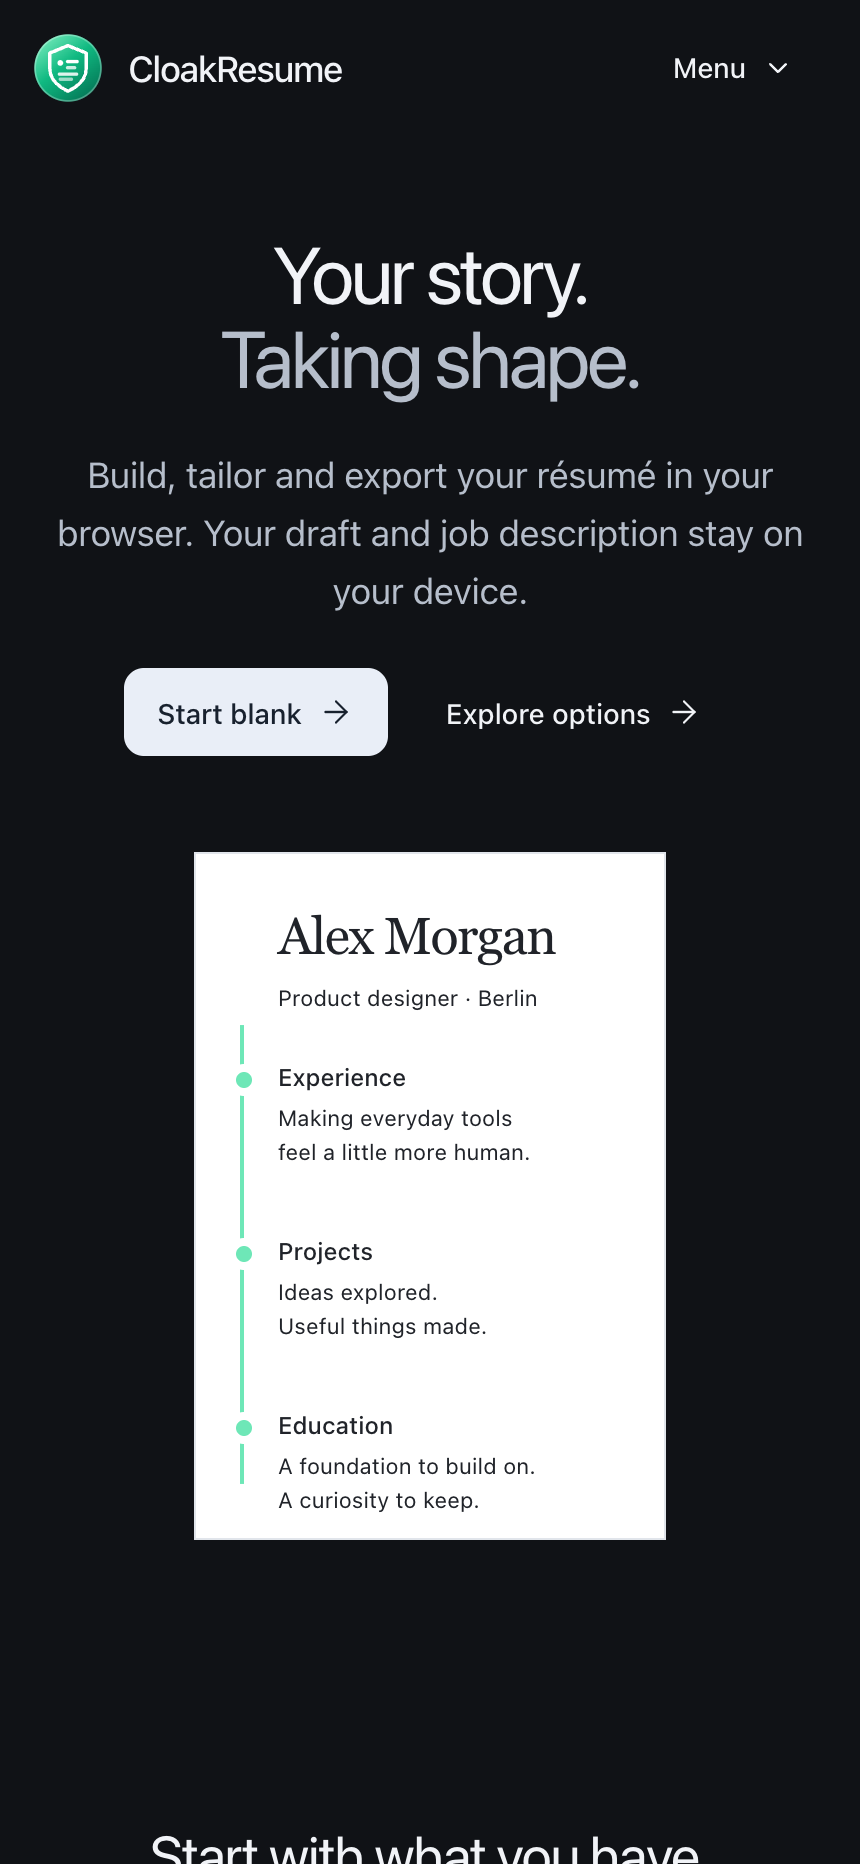
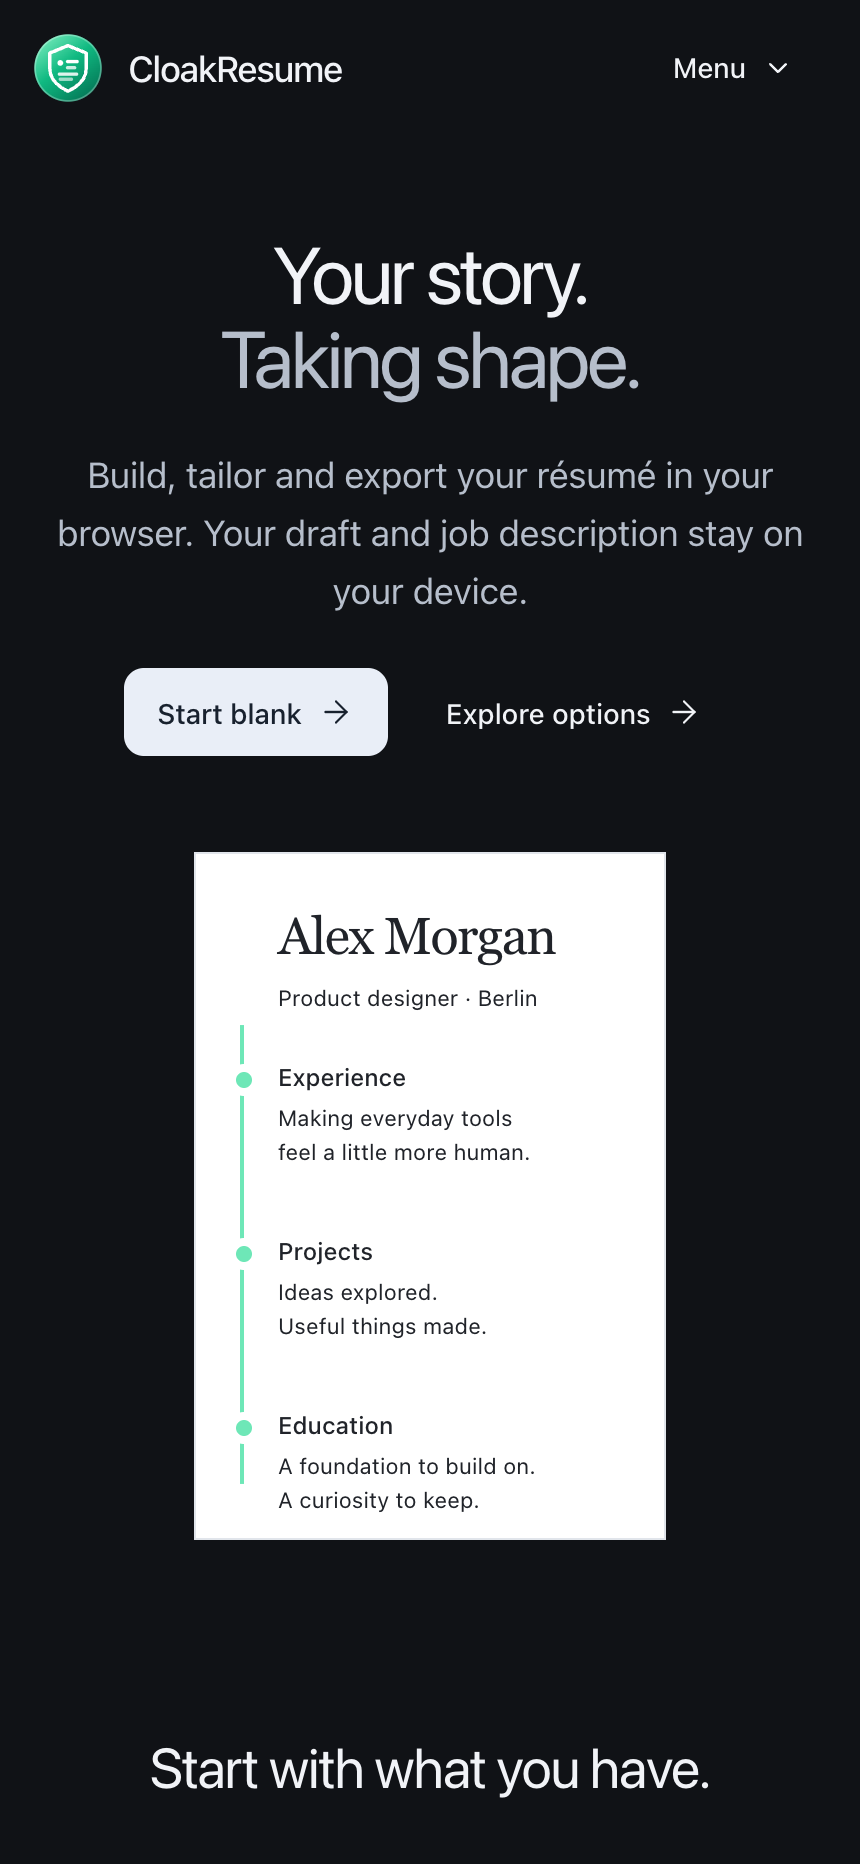
Remove landing playback controls and refresh stable previews

Changed region(s): [[0.1814, 0.9335, 0.8163, 1.0]]

diff --git a/src/components/Storyline.tsx b/src/components/Storyline.tsx
@@ -24,7 +24,6 @@ const move = (x: number, y: number) => `translate(${x}px, ${y}px)`;
 /** One illustrative career path; never reads a draft or delays entry to the editor. */
 export function Storyline() {
   const root = useRef<HTMLDivElement>(null);
-  const control = useRef<HTMLButtonElement>(null);
   useLayoutEffect(() => {
     const element = root.current;
     if (!element) return;
@@ -35,7 +34,6 @@ export function Storyline() {
     const rows = [...stage.querySelectorAll<HTMLElement>(".resume-story-chapter")];
     let width = stage.clientWidth;
     const artwork = mountAirArtwork(element, {
-      control: control.current,
       settle() {}, // Markup and CSS always describe the complete static résumé.
       run: (animate) => {
         width = stage.clientWidth;
@@ -162,11 +160,6 @@ export function Storyline() {
         {pieces.map((t) => (
           <span className="resume-story-line" key={t} style={{ transform: pose(t, 1, 0) }} />
         ))}
-      </div>
-      <div className="resume-story-controls">
-        <button type="button" className="air-button air-button--quiet" ref={control} hidden>
-          Pause animation
-        </button>
       </div>
     </div>
   );

diff --git a/src/styles/storyline.css b/src/styles/storyline.css
@@ -83,14 +83,6 @@
   font: 400 14px/1.4 var(--air-font);
   white-space: nowrap;
 }
-.resume-story-controls {
-  min-height: 44px;
-  display: flex;
-  justify-content: center;
-}
-.resume-story-controls button {
-  min-height: 44px;
-}
 @media (max-height: 480px) and (orientation: landscape) {
   .resume-story-stage {
     zoom: 0.78;

diff --git a/DESIGN.md b/DESIGN.md
@@ -1,19 +1,19 @@
 ---
 name: CloakResume — Cloakyard Air
-version: 1.2.0
+version: 1.2.1
 status: approved
 date: 2026-10-26
 scope: complete-web-product
 source-repository: https://github.com/cloakyard/cloakyard
 source-directory: design/air
-family-contract-sha256: a320d10433dd8790bf49b917d998dad6912574eb341d07c1b0915b5eefee576b
+family-contract-sha256: 58c563852cb37d8e729719311e857d96492023d96c1491b6203396173e459124
 ---
 
 <!-- BEGIN CLOAKYARD AIR CONTRACT -->
 
 # Cloakyard Air design contract
 
-Version: **1.2.0 — storyline and family chrome** · Direction: **Air** · Updated: **2026-10-26**
+Version: **1.2.1 — automatic finite landing artwork** · Direction: **Air** · Updated: **2026-10-26**
 
 The detailed Air system is **locked for implementation**. On 2026-10-13 the user
 authorized one final agent review followed by implementation; that review is
@@ -701,15 +701,16 @@ An accurate product screenshot may remain in the following feature section.
   keeping their stacking order. The front page and real dropzone stay anchored.
   Settle open after one unveiling; do not loop, reorder, or animate file intake.
 - **Drop:** square teal pixels descend into file, package, disc and archive forms.
-  Each form holds before dispersing downward and assembling the next. Use 850ms
-  pixel arrivals, a 50ms bottom-to-top row stagger, 480ms dispersal and a 1,500ms
-  hold. Use shared spatial/exit curves and linear descent with a gentle landing.
-  Keep a visible, keyboard/touch-accessible Air pause/resume action for repetition.
+  Show FILE, PKG, ISO and ZIP once, then keep the final form still. Use 600ms
+  arrivals, an 8ms bottom-to-top row stagger plus at most 29ms scatter, 160ms
+  dispersal with at most 48ms stagger and a 300ms hold between forms. The complete
+  sequence stays under five seconds (4,776ms maximum active timeline). Use shared
+  spatial/exit curves and linear descent with a gentle landing; never loop.
   These are illustrative file types, never a simulated real transfer or progress bar.
 - **Resume:** a green career path with three milestones gathers into the spine of
   one white résumé over 3,400ms with the shared spatial curve. Keep the paper's
   name and content illustrative; do not imply automatic writing or hiring results.
-  Run once, retain visible Pause/Play/Replay and a complete static résumé fallback.
+  Run once and settle into a complete static résumé. No playback controls.
   The headline and real Start blank/sample/import/restore actions never move.
 - Artwork uses only the product's existing `light-{app}` colour, neutral planes
   and truthful paper/image colours. The UI's focus, links and controls retain Air.
@@ -718,8 +719,11 @@ An accurate product screenshot may remain in the following feature section.
   theme, alongside the existing `paper-accent`; surrounding controls use live themes.
 - Static artwork renders without the animation module. Reduced motion, forced
   colours and constrained/save-data visits do not start decorative motion.
-  Live preference changes settle immediately. Pause offscreen and hidden; user
-  pause survives visibility changes. Cancel animations/listeners on departure.
+  Live preference changes settle immediately. Suspend offscreen and hidden; resume
+  the same finite sequence on return. Cancel animations/listeners on departure.
+- Landing artwork has no visible Play, Pause or Replay controls. Each automatic
+  arrival finishes within five seconds and remains still; returning visibility
+  or removing a motion restriction must not restart a completed sequence.
 - Keep the action usable before, during and after motion. Reserve the artwork's
   layout space, contain only its moving marks, and shrink ornamental space first
   in short landscape. Text and controls reflow at enlarged sizes. No fake upload,
@@ -1038,9 +1042,9 @@ performance approval.
 - One optional Air light effect on a landing page, never in an active workspace.
   Code is local/lazy; use the approved Shaders library only if it improves the
   chosen light treatment. A static CSS/image fallback must render first.
-- Pause offscreen, hidden, reduced-motion, and constrained-device effects. An
-  autonomous loop longer than five seconds needs a visible pause/stop control.
-  Prefer one short entrance or deliberate pointer response. Content and actions
+- Suspend offscreen/hidden effects and settle reduced-motion/constrained visits.
+  Landing artwork uses one entrance of at most five seconds or deliberate pointer
+  response, with no autonomous loop or playback controls. Content and actions
   never depend on GPU support or successful effect loading.
 - The reference's light follows a mass 1 / stiffness 100 / damping 10 spring,
   confined to the middle 70% of the artwork. It settles within 1.8s after the last

diff --git a/docs/air/validation.md b/docs/air/validation.md
@@ -1,5 +1,16 @@
 # Air validation record
 
+## 2026-10-26 — Automatic landing artwork without playback controls
+
+Removes the button/ref/CSS while preserving the 3,400ms Storyline arrival. All 373 production tests in ten files pass with zero skips; 68 artwork layouts, eight arrival layouts and lifecycle/static profiles pass. PWA/README screenshots were regenerated from the production build; the editor-based OG composition is unchanged. Visual inspection caught an existing capture timing fault that omitted dark-mode paper text. The generator now requires stable pixels after font readiness; all four repeated captures match exactly. No application rendering change was needed.
+
+Air 1.2.1 requires automatic finite landing artwork without Play/Pause/Replay.
+Hidden/offscreen suspension and reduced-motion/static fallbacks remain. Shared
+Chrome/Firefox checks pass 1,104 layouts. Applicable checks, build, dead-code,
+design and portable-bundle checks pass. See `evidence/finite-artwork-2026-10-26/`.
+Physical/assistive/device and earlier product acceptance remain open. Deployment
+is tracked by the family release ledger after passing dev → main PRs.
+
 ## 2026-10-26 — Full web cleanup audit
 
 Audited all web imports/exports, dependencies, custom styles, public assets and

diff --git a/README.md b/README.md
@@ -32,8 +32,8 @@ CloakResume is a browser-native editor for the complete résumé workflow:
 - **Carry** — export PDF, save or load editable JSON, start with realistic sample content, and return to a browser-saved local draft.
 
 The application follows [Cloakyard Air](DESIGN.md): quiet neutral surfaces,
-readable system typography, shared controls and a green landing light drawn from
-CloakResume’s mark. Public hyperlinks stay neutral, including hover, with angled
+readable system typography, shared controls and a green career path that gathers
+into a résumé once, then rests without playback controls. Public hyperlinks stay neutral, including hover, with angled
 cues where appropriate. Résumé templates preserve their individual typography,
 author-selected colours and pagination in both application themes.
 

diff --git a/docs/brand-assets.md b/docs/brand-assets.md
@@ -55,6 +55,8 @@ waits for visible Air fields, the ready paginated template, decoded images and
 local fonts. A capture-only random seed and fixed 21 October 2026 date keep the
 built-in synthetic sample reproducible. Registration is disabled only in these
 isolated capture contexts so an offline-ready notice cannot obscure the UI.
+Capture waits for repeated identical pixel frames after font/layout readiness so
+fresh dark-theme glyphs are painted before the preview is saved.
 No personal profile, saved user draft, markup replacement or hidden controls are
 used. Browser/resource failures stop generation.
 
